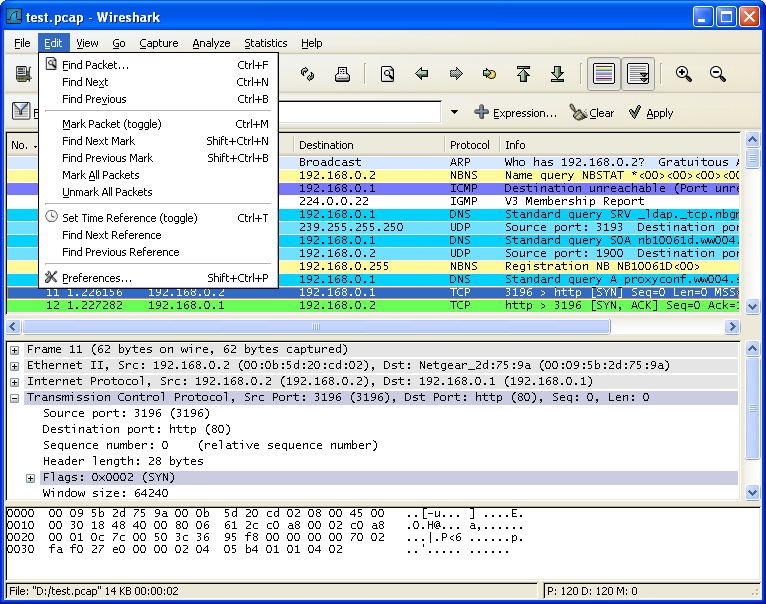
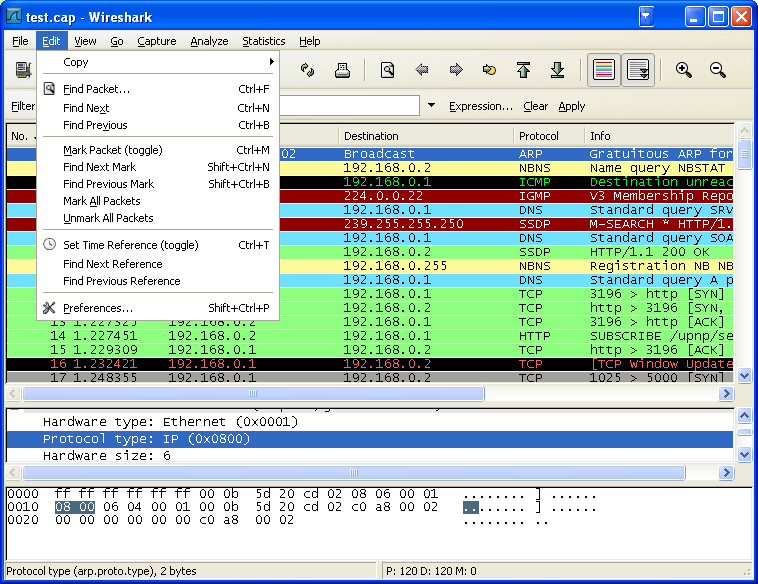
From Sake Blok (via -dev list and enhancement bug #1449):
I did however see some small errors in the
documentation that I did not notice when I sent in the patch. This
patch corrects them and adds an accelerated key:

- table 6.1 remove "Analyze" from "Identical..." column for "Copy as Filter"
- table 6.2 add "Edit" from "Identical..." column for "Copy as Filter"
- Added accelerator key for "Copy as Filter". I chose "Shift+Ctrl+C", so
  that "Ctrl+C" is still available for "standard" copy

Image figure 3.4 should be renewed, reflecting the change in the menu
structure. 

git-svn-id: http://anonsvn.wireshark.org/wireshark/trunk@21140 f5534014-38df-0310-8fa8-9805f1628bb7

diff --git a/gtk/menu.c b/gtk/menu.c
@@ -433,7 +433,7 @@ static GtkItemFactoryEntry menu_items[] =
                              0, GTK_STOCK_QUIT),
     ITEM_FACTORY_ENTRY("/_Edit", NULL, NULL, 0, "<Branch>", NULL),
     ITEM_FACTORY_ENTRY("/Edit/Copy", NULL, NULL, 0, "<Branch>", NULL),
-    ITEM_FACTORY_ENTRY("/Edit/Copy/As Filter", NULL, match_selected_ptree_cb,
+    ITEM_FACTORY_ENTRY("/Edit/Copy/As Filter", "<shift><control>C", match_selected_ptree_cb,
                        MATCH_SELECTED_REPLACE|MATCH_SELECTED_COPY_ONLY, NULL, NULL),
 #if 0
     /* Un-#if this when we actually implement Cut/Copy/Paste. */
